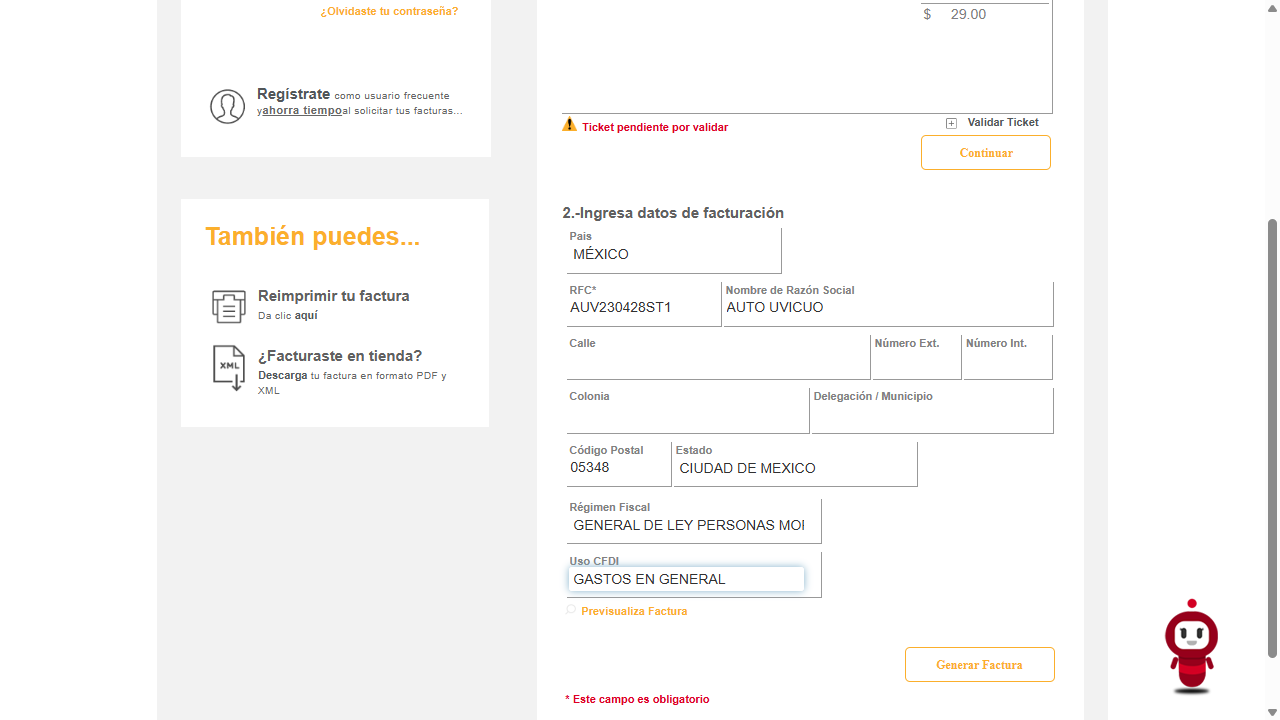
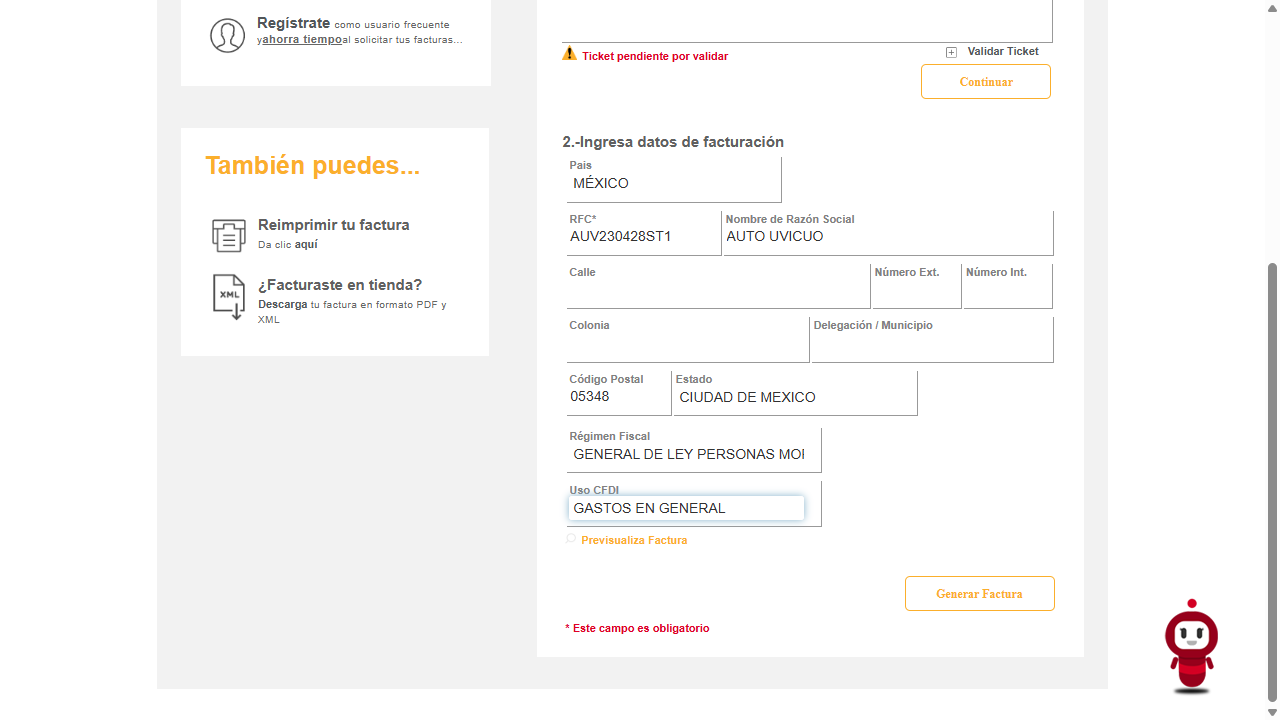
Validaciones y reintentos en extractor

diff --git a/extractor.py b/extractor.py
@@ -5,7 +5,94 @@ import sys
 import re
 from pathlib import Path
 
-def extraer_datos_ticket(imagen_path: str) -> dict:
+PROMPT_INTENTO_1 = """Eres un extractor de datos de tickets de OXXO. Lee la imagen y responde SOLO con JSON.
+
+ESTRUCTURA EXACTA DE CADA CAMPO:
+- fecha: formato DD/MM/YYYY exacto
+- folio_venta: solo números después de "Fol_Vta:" o "Fol Vta:"
+- id_venta: código después de "ID=" — SIEMPRE tiene esta estructura: 10 + 3 LETRAS MAYÚSCULAS + 3 NÚMEROS + 2 LETRAS MAYÚSCULAS + 1 NÚMERO. Ejemplo: 10GUD508DZ1. Cuidado: no confundas 0 con O, ni 1 con I, ni G con 6, ni Z con 2
+- total: número con 2 decimales sin símbolo $ (ejemplo: 42.00)
+- tienda: nombre de la tienda en el encabezado
+
+Responde ÚNICAMENTE con este JSON sin texto adicional:
+{"fecha": "DD/MM/YYYY", "folio_venta": "123456", "id_venta": "10XXX000XX0", "total": "00.00", "tienda": "NOMBRE"}"""
+
+PROMPT_INTENTO_2 = """El sistema intentó facturar con tus datos anteriores pero el portal de OXXO los rechazó.
+
+Lee el ticket NUEVAMENTE con máxima atención. El error probablemente está en el ID de venta.
+
+REGLAS ESTRICTAS PARA EL ID DE VENTA:
+- Empieza SIEMPRE con el número 1 y el número 0: "10"
+- Posiciones 3-5: TRES LETRAS MAYÚSCULAS (A-Z) — no números
+- Posiciones 6-8: TRES NÚMEROS (0-9) — no letras
+- Posiciones 9-10: DOS LETRAS MAYÚSCULAS (A-Z) — no números  
+- Posición 11: UN NÚMERO (0-9)
+- Confusiones comunes: O vs 0, I vs 1, Z vs 2, G vs 6, S vs 5
+
+También verifica:
+- Folio: solo los números después de Fol_Vta:
+- Total: exactamente como aparece en el ticket incluyendo centavos
+
+Responde ÚNICAMENTE con JSON:
+{"fecha": "DD/MM/YYYY", "folio_venta": "123456", "id_venta": "10XXX000XX0", "total": "00.00", "tienda": "NOMBRE"}"""
+
+PROMPT_INTENTO_3 = """TERCER INTENTO. El portal sigue rechazando los datos.
+
+Analiza el ticket caracter por caracter. Busca específicamente:
+
+1. La línea que contiene "ID=" — copia exactamente los 11 caracteres después del signo igual
+2. La línea que contiene "Fol_Vta:" o "Fol Vta:" — copia solo los números
+3. La fecha al inicio del ticket — formato DD/MM/YYYY
+4. El Total — busca "Total: $" y copia el número exacto
+
+Para el ID recuerda:
+- Caracter 1: siempre "1"
+- Caracter 2: siempre "0"  
+- Caracteres 3,4,5: letras (si ves algo que parece número pero está en posición de letra, es letra)
+- Caracteres 6,7,8: números (si ves algo que parece letra pero está en posición de número, es número)
+- Caracteres 9,10: letras
+- Caracter 11: número
+
+Responde ÚNICAMENTE con JSON:
+{"fecha": "DD/MM/YYYY", "folio_venta": "123456", "id_venta": "10XXX000XX0", "total": "00.00", "tienda": "NOMBRE"}"""
+
+def validar_y_limpiar_datos(datos: dict) -> dict:
+    errores = []
+    
+    # Validar fecha
+    fecha = datos.get("fecha", "")
+    if not re.match(r'^\d{2}/\d{2}/\d{4}$', fecha):
+        errores.append(f"⚠ Fecha con formato sospechoso: {fecha}")
+    
+    # Validar y limpiar total
+    total = datos.get("total", "")
+    total_limpio = re.sub(r'[^\d.]', '', total)
+    if total_limpio != total:
+        print(f"⚠ Total limpiado: '{total}' → '{total_limpio}'")
+        datos["total"] = total_limpio
+    if not re.match(r'^\d+\.\d{2}$', total_limpio):
+        errores.append(f"⚠ Total con formato sospechoso: {total_limpio}")
+    
+    # Validar folio
+    folio = datos.get("folio_venta", "")
+    folio_limpio = re.sub(r'[^\d]', '', folio)
+    if folio_limpio != folio:
+        print(f"⚠ Folio limpiado: '{folio}' → '{folio_limpio}'")
+        datos["folio_venta"] = folio_limpio
+    if not folio_limpio.isdigit():
+        errores.append(f"⚠ Folio con formato sospechoso: {folio_limpio}")
+    
+    # Validar ID de venta
+    id_venta = datos.get("id_venta", "")
+    if not re.match(r'^10[A-Z]{3}[0-9]{3}[A-Z]{2}[0-9]{1}$', id_venta):
+        errores.append(f"⚠ ID de venta con formato sospechoso: {id_venta}")
+    
+    for error in errores:
+        print(error)
+    
+    return datos
+
+def extraer_datos_ticket(imagen_path: str, intento: int = 1) -> dict:
     with open(imagen_path, "rb") as f:
         imagen_base64 = base64.standard_b64encode(f.read()).decode("utf-8")
     
@@ -14,6 +101,9 @@ def extraer_datos_ticket(imagen_path: str) -> dict:
     media_type = media_types.get(ext, "image/jpeg")
     
     client = anthropic.Anthropic(api_key="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")
+    
+    prompts = {1: PROMPT_INTENTO_1, 2: PROMPT_INTENTO_2, 3: PROMPT_INTENTO_3}
+    instruccion = prompts.get(intento, PROMPT_INTENTO_3)
     
     mensaje = client.messages.create(
         model="claude-opus-4-5",
@@ -31,29 +121,25 @@ def extraer_datos_ticket(imagen_path: str) -> dict:
                 },
                 {
                     "type": "text",
-                    "text": """Eres un extractor de datos de tickets de OXXO. 
-Extrae exactamente estos datos del ticket y responde SOLO con JSON, sin texto adicional, sin markdown, sin explicaciones:
-
-{"fecha": "DD/MM/YYYY", "folio_venta": "numero despues de Fol_Vta:", "id_venta": "codigo despues de ID=", "total": "monto con 2 decimales sin simbolo de pesos", "tienda": "nombre de la tienda"}"""
+                    "text": instruccion
                 }
             ]
         }]
     )
     
     respuesta = mensaje.content[0].text.strip()
-    print(f"Respuesta de Claude: {respuesta}")
+    print(f"Respuesta de Claude (intento {intento}): {respuesta}")
     
-    # Verificar si Claude no pudo leer el ticket
     if not respuesta or len(respuesta) < 10:
         raise ValueError("❌ No se pudo leer el ticket. Verifica que la imagen sea clara y legible.")
     
-    if any(palabra in respuesta.lower() for palabra in ["no puedo", "no es posible", "imagen borrosa", "ilegible", "cannot", "unclear"]):
+    if any(palabra in respuesta.lower() for palabra in ["no puedo", "no es posible", "ilegible", "cannot", "unclear"]):
         raise ValueError("❌ La imagen está borrosa o es ilegible. Toma una foto más clara del ticket.")
     
-    # Buscar JSON en la respuesta
     match = re.search(r'\{.*\}', respuesta, re.DOTALL)
     if match:
         datos = json.loads(match.group())
+        datos = validar_y_limpiar_datos(datos)
         return datos
     else:
         raise ValueError(f"No se encontró JSON en la respuesta: {respuesta}")
